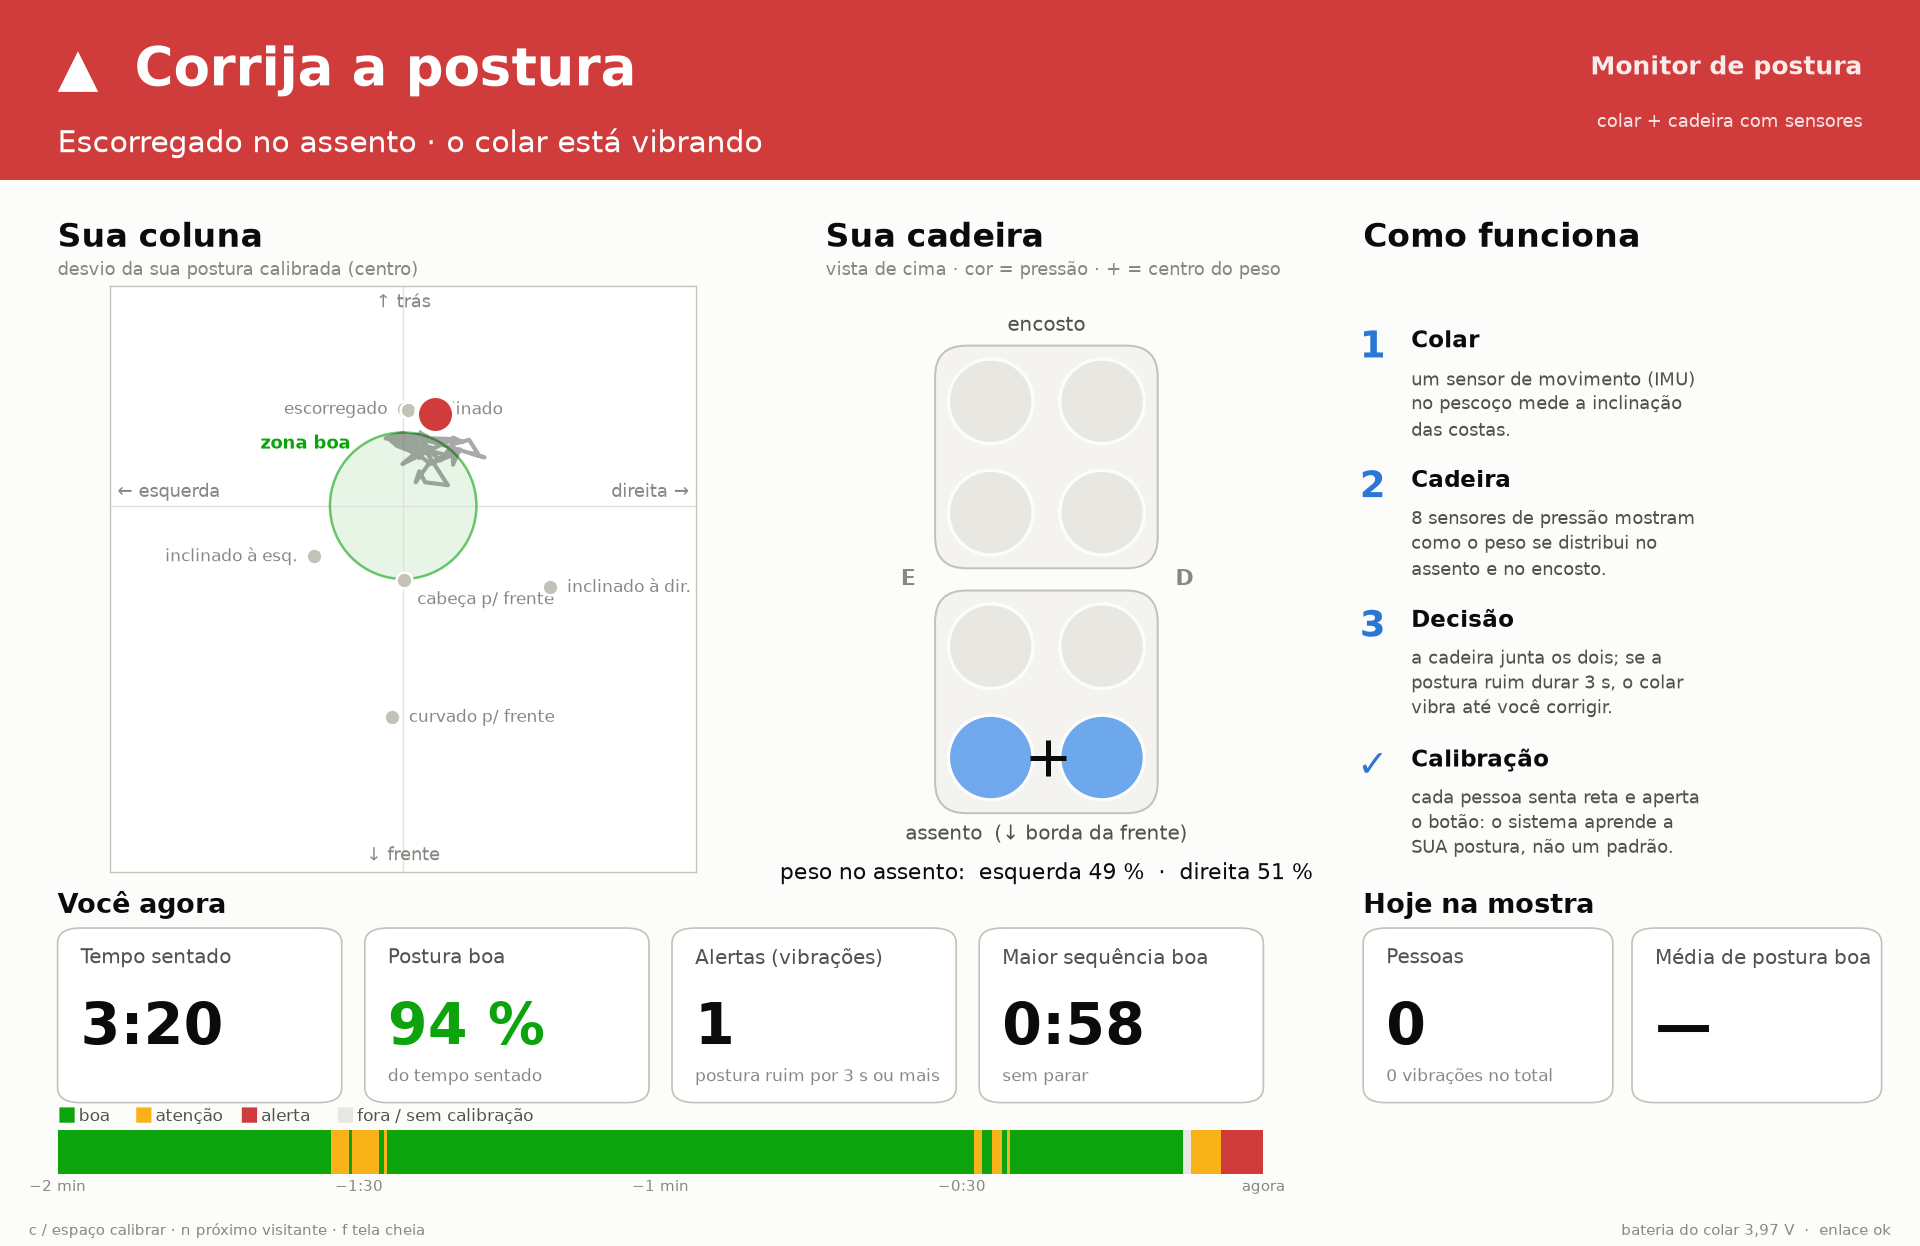
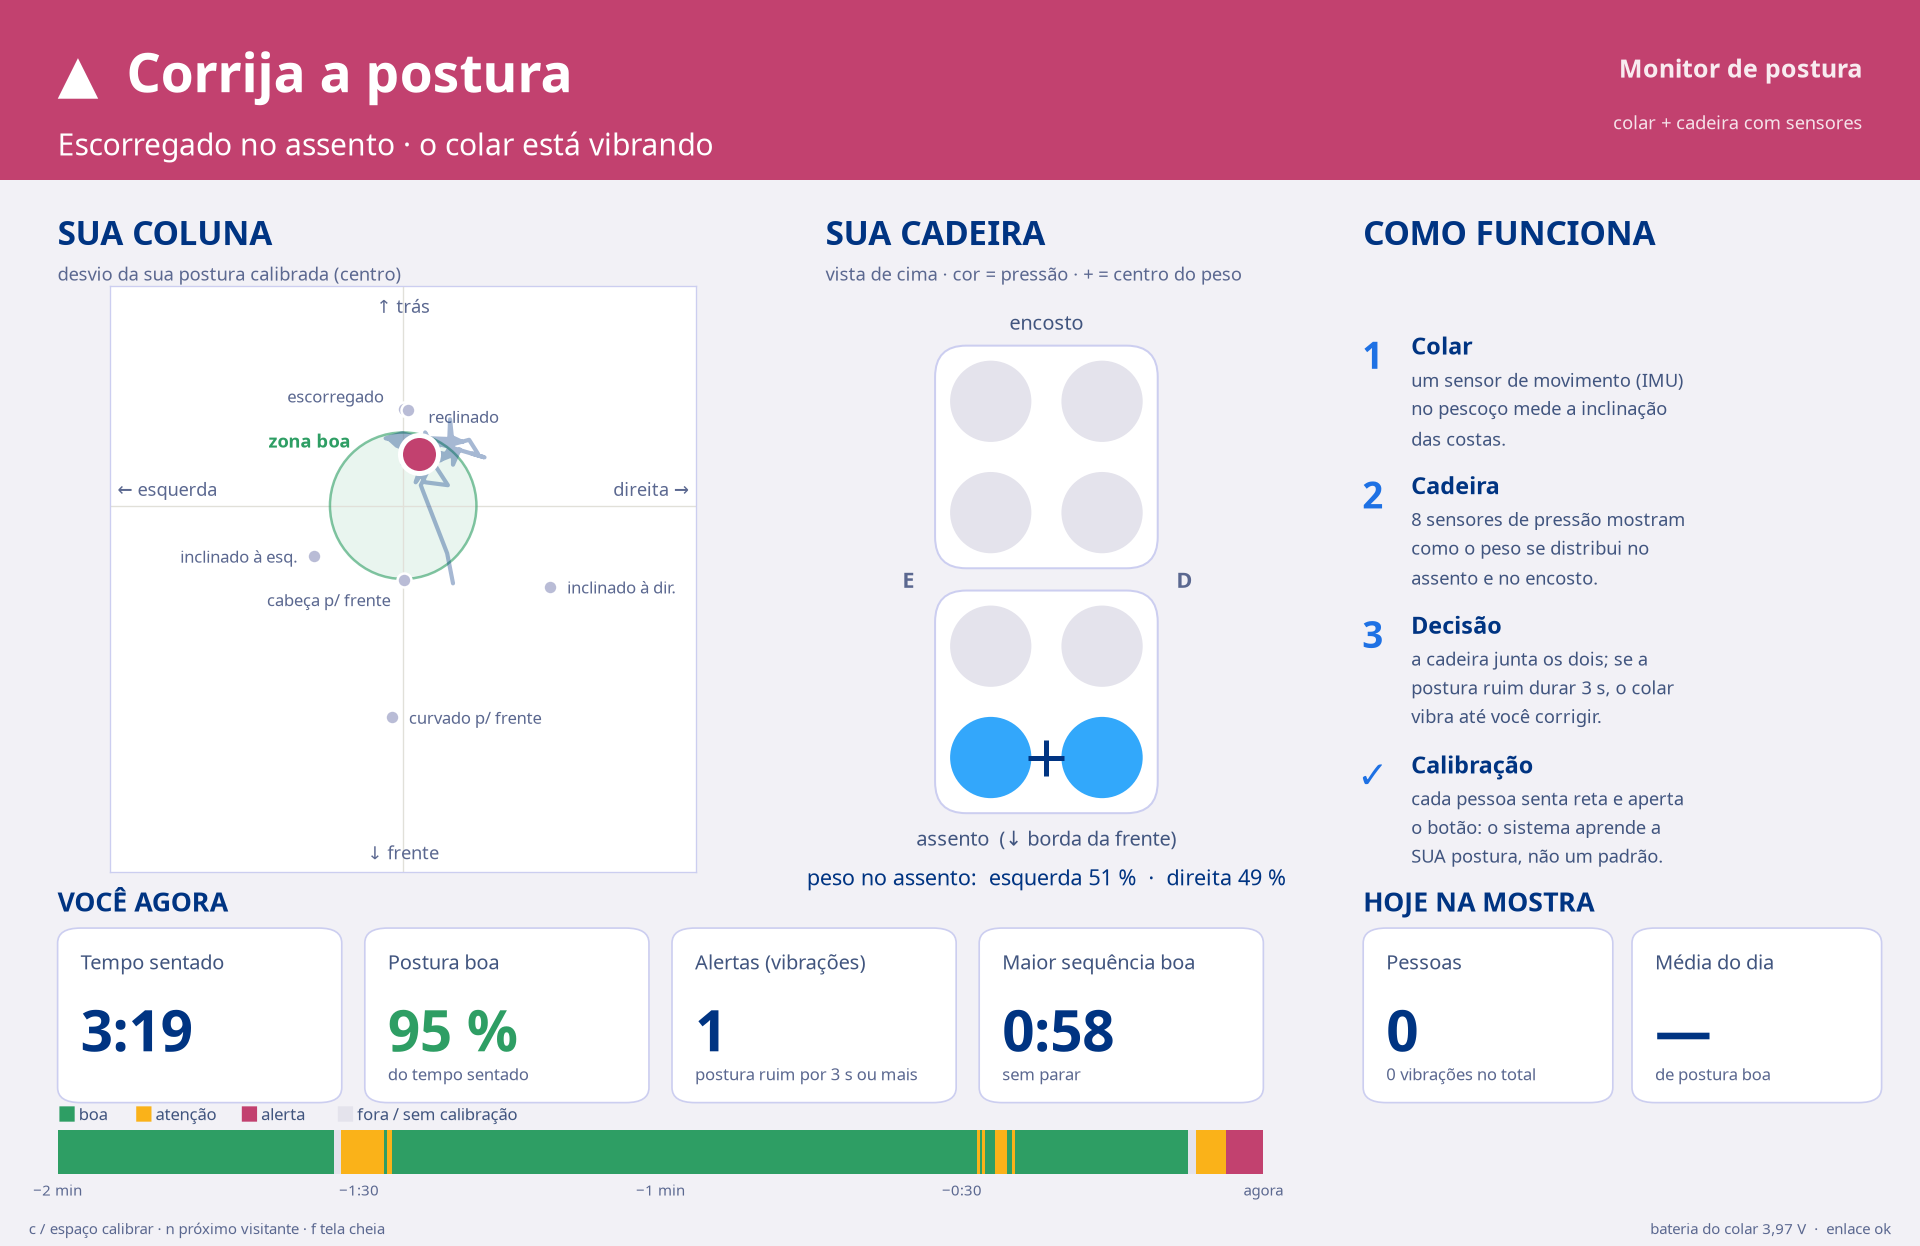
mostra: align the exhibit screen with the stand's visual identity
Visual only (visits, stats and decisions untouched):
- navy text/titles, upper-case section titles, Noto Sans (DejaVu fallback
  for the symbols); lavender background, white cards; step numbers in
  #1e71e4; FSR pressure cyan -> violet.
- Status band: the stand's green/pink stepped down for white text
  (#2e9e64 3.4:1, #c2416f 4.9:1); amber attention kept, navy text (6.3:1);
  neutral states on the stand gradient #1e71e4 -> #9142d4 -> #cd4fd3.
- Fixes: "escorregado"/"reclinado" and "cabeça p/ frente"/"inclinado à
  dir." labels no longer touch; "Média do dia" fits its card; tighter step
  text for Noto's line height.
- Regenerated docs/stand/dashboard-{boa,alerta}.png; stand README and the
  exhibit guide describe the applied palette.

diff --git a/analysis/mostra.py b/analysis/mostra.py
@@ -40,7 +40,7 @@ import live_posture as LP  # noqa: I001  (sets the Qt backend first)
 import matplotlib.pyplot as plt
 import numpy as np
 from matplotlib.animation import FuncAnimation
-from matplotlib.colors import ListedColormap
+from matplotlib.colors import LinearSegmentedColormap, ListedColormap
 from matplotlib.patches import Circle, FancyBboxPatch, Rectangle
 
 import chair_map as M
@@ -60,12 +60,23 @@ STATS_DIR = Path.home() / ".local" / "state" / "tcc-mostra"
 # sample categories (timeline + tiles)
 NONE, GOOD, WARN, ALERT = 0, 1, 2, 3
 
-# status palette (dataviz reference: good / warning / critical) + neutrals
-GOOD_C, WARN_C, ALERT_C = "#0ca30c", "#fab219", "#d03b3b"
-INFO_C, IDLE_C = "#2a78d6", "#52514e"
-INK, INK2, MUTED = "#0b0b0b", "#52514e", "#898781"
-SURFACE, PLATE, PLATE_EC, EMPTY_FC = "#fcfcfb", "#f4f3f0", "#c3c2b7", "#e8e7e2"
+# stand identity (docs/stand/README.md). Status colours are the stand's green /
+# pink stepped down for white text (bold, large: >= 3:1 — 3.4 and 4.9); the
+# amber "attention" isn't on the panels but is a distinct third state (navy
+# text, 6.3:1). Neutral states use the stand's gradient (white text >= 3.7:1).
+GOOD_C, WARN_C, ALERT_C = "#2e9e64", "#fab219", "#c2416f"
+INFO_C = "#1e71e4"                            # 4.1:1 on SURFACE (the cyan is only 2.3)
+IDLE = None                                   # header: the stand gradient
+STAND_GRADIENT = ["#1e71e4", "#9142d4", "#cd4fd3"]
+INK, INK2, MUTED = "#003482", "#41557f", "#5b6890"   # navy; 6.6 and 4.9:1 on SURFACE
+SURFACE, PLATE, PLATE_EC, EMPTY_FC = "#f2f1f6", "#ffffff", "#cccef0", "#e4e3ec"
+REF_C = "#b9bcd6"                             # recorded postures, behind the live dot
 CAT_CMAP = ListedColormap([EMPTY_FC, GOOD_C, WARN_C, ALERT_C])
+LOAD_CMAP = LinearSegmentedColormap.from_list("load", ["#cfeafe", "#32a8fb", "#6a73e6", "#9142d4"])
+REF_LABELS = {                                # (offset pt, ha): keep nearby postures apart
+    "escorregado": ((-12, 8), "right"), "reclinado": ((12, -4), "left"),
+    "cabeca": ((-8, -12), "right"),
+}
 
 
 # --- pure logic ---------------------------------------------------------------
@@ -282,7 +293,7 @@ class ReplayReader(LP.ChairReader):
 
 # --- drawing ------------------------------------------------------------------
 def panel_title(fig, x, y, text, sub=""):
-    fig.text(x, y, text, fontsize=20, weight="bold", color=INK, va="bottom")
+    fig.text(x, y, text.upper(), fontsize=20, weight="bold", color=INK, va="bottom")
     if sub:
         fig.text(x, y - 0.005, sub, fontsize=11, color=MUTED, va="top")
 
@@ -333,13 +344,13 @@ class ChairPanel:
         for slot, (plate, _, sx, sy) in M.SLOTS.items():
             x0, y0 = self.PLATES[plate]
             self.spots[slot] = ax.add_patch(Circle((x0 + 2.5 + 5 * sx, y0 + 2.5 + 5 * sy),
-                                                   self.SPOT_R, zorder=2, lw=2, ec=SURFACE))
+                                                   self.SPOT_R, zorder=2, lw=2, ec=PLATE))
         self.balance = ax.text(5, -2.2, "", ha="center", va="top", fontsize=13, color=INK)
 
     def update(self, g: dict[int, float], live: bool):
         for slot, spot in self.spots.items():
             us = g.get(self.fmap.get(slot, -1), 0.0) if live else 0.0
-            spot.set_facecolor(LP.LOAD_CMAP(float(LP.LOAD_NORM(us))) if us > 0 else EMPTY_FC)
+            spot.set_facecolor(LOAD_CMAP(float(LP.LOAD_NORM(us))) if us > 0 else EMPTY_FC)
         for plate, (x0, y0) in self.PLATES.items():
             bal = M.plate_balance(self.fmap, g if live else {}, plate)
             self.cop[plate].set_data(*(([x0 + 2.5 + 5 * bal[0]], [y0 + 2.5 + 5 * bal[1]])
@@ -389,6 +400,7 @@ def main() -> int:
     for k in ("keymap.back", "keymap.home", "keymap.save", "keymap.pan", "keymap.zoom",
               "keymap.grid", "keymap.yscale", "keymap.xscale"):
         plt.rcParams[k] = []
+    plt.rcParams["font.family"] = ["Noto Sans", "DejaVu Sans"]   # closer to the panels; DejaVu for ✓ ▲ ■ ←
     fig = plt.figure(figsize=(16, 10), facecolor=SURFACE)
     fig.canvas.manager.set_window_title("Monitor de postura — mostra")
     try:
@@ -401,7 +413,9 @@ def main() -> int:
     head.set_xlim(0, 1)
     head.set_ylim(0, 1)
     head.axis("off")
-    band = head.add_patch(Rectangle((0, 0), 1, 1, fc=IDLE_C, lw=0))
+    head.imshow(LinearSegmentedColormap.from_list("stand", STAND_GRADIENT)(np.linspace(0, 1, 512))[None],
+                aspect="auto", extent=(0, 1, 0, 1), zorder=0)
+    band = head.add_patch(Rectangle((0, 0), 1, 1, lw=0, zorder=1))
     status = head.text(0.03, 0.60, "", fontsize=32, weight="bold", color="white", va="center")
     status_sub = head.text(0.03, 0.20, "", fontsize=18, color="white", va="center")
     _ = [head.text(0.97, 0.62, "Monitor de postura", fontsize=15, weight="bold",
@@ -436,8 +450,8 @@ def main() -> int:
             label = LP.REF_POSTURES[key][1]
             if np.hypot(mx, my) < LP.ALERT_DEG:          # crossed legs: inside the good zone
                 continue
-            ax.scatter([mx], [my], s=90, color="#c3c2b7", edgecolor="white", lw=1.5, zorder=2)
-            off, ha = LP.REF_POSTURES[key][2:]
+            ax.scatter([mx], [my], s=70, color=REF_C, edgecolor="white", lw=1.5, zorder=2)
+            off, ha = REF_LABELS.get(key, LP.REF_POSTURES[key][2:])
             ax.annotate(label, (mx, my), xytext=off, textcoords="offset points", ha=ha,
                         va="center", fontsize=10, color=MUTED, zorder=2)
     trail, = ax.plot([], [], color=INK, lw=2.5, alpha=0.35, zorder=4, solid_capstyle="round")
@@ -456,7 +470,7 @@ def main() -> int:
         y = 0.735 - i * 0.112
         fig.text(0.715, y, num, fontsize=22, weight="bold", color=INFO_C, va="top", ha="center")
         fig.text(0.735, y, title, fontsize=14, weight="bold", color=INK, va="top")
-        fig.text(0.735, y - 0.03, body, fontsize=11, color=INK2, va="top", linespacing=1.35)
+        fig.text(0.735, y - 0.03, body, fontsize=11, color=INK2, va="top", linespacing=1.15)
 
     # você (current / last visitor) + timeline
     who = fig.text(0.03, 0.262, "", fontsize=16, weight="bold", color=INK, va="bottom")
@@ -479,9 +493,9 @@ def main() -> int:
         fig.text(x + 0.011, 0.097, label, color=INK2, fontsize=10, va="bottom")
 
     # hoje
-    fig.text(0.71, 0.262, "Hoje na mostra", fontsize=16, weight="bold", color=INK, va="bottom")
+    fig.text(0.71, 0.262, "HOJE NA MOSTRA", fontsize=16, weight="bold", color=INK, va="bottom")
     day_tiles = [Tile(fig, (0.71, 0.115, 0.13, 0.14), "Pessoas"),
-                 Tile(fig, (0.85, 0.115, 0.13, 0.14), "Média de postura boa")]
+                 Tile(fig, (0.85, 0.115, 0.13, 0.14), "Média do dia")]
     record = fig.text(0.71, 0.075, "", fontsize=13, color=INK, va="center")
     footer = fig.text(0.985, 0.006, "", fontsize=9, color=MUTED, ha="right", va="bottom")
     fig.text(0.015, 0.006, "c / espaço calibrar · n próximo visitante · f tela cheia",
@@ -507,7 +521,9 @@ def main() -> int:
     fig.canvas.mpl_connect("key_press_event", on_key)
 
     def header(colour, title, sub="", ink="white"):
-        band.set_facecolor(colour)
+        band.set_visible(colour is not None)          # None: the stand gradient shows
+        if colour is not None:
+            band.set_facecolor(colour)
         status.set(text=title, color=ink)
         status_sub.set(text=sub, color=ink)
 
@@ -541,7 +557,7 @@ def main() -> int:
 
         # status band
         if not reader.connected:
-            header(IDLE_C, "Conectando à cadeira…", "verifique o cabo USB da cadeira")
+            header(IDLE, "Conectando à cadeira…", "verifique o cabo USB da cadeira")
         elif cal_txt.startswith("calibrating") and cal_age < CALIBRATING_MAX_S:
             header(INFO_C, "Calibrando… fique parado", "sentado reto, olhando para a frente")
         elif cal_txt.startswith("calibrated upright") and cal_age < CALIBRATED_SHOW_S:
@@ -551,13 +567,13 @@ def main() -> int:
             header(WARN_C, "Calibração não deu certo", "sente-se reto, fique parado e "
                    "aperte o botão de novo", ink=INK)
         elif not body_up:
-            header(IDLE_C, "Ligue o colar", "o colar está sem sinal")
+            header(IDLE, "Ligue o colar", "o colar está sem sinal")
         elif not LP.imu_valid(r):
-            header(IDLE_C, "Ajuste o colar", "o sensor do colar está sem leitura")
+            header(IDLE, "Ajuste o colar", "o sensor do colar está sem leitura")
         elif seated is False:
-            header(IDLE_C, "Sente-se para começar", "a cadeira está vazia")
+            header(IDLE, "Sente-se para começar", "a cadeira está vazia")
         elif not r["cal"] or exhibit.visit is None:
-            header(IDLE_C, "Sente-se reto e aperte o botão da cadeira",
+            header(IDLE, "Sente-se reto e aperte o botão da cadeira",
                    "assim o sistema aprende a SUA postura")
         elif cat == ALERT:
             header(ALERT_C, "▲  Corrija a postura",
@@ -577,7 +593,7 @@ def main() -> int:
                             and LP.imu_valid(x)])
             trail.set_data(pts[:, 0], pts[:, 1])
             dot.set_offsets([np.clip(pts[-1], [-39, -49], [39, 29])])
-            dot.set_color({GOOD: GOOD_C, WARN: WARN_C, ALERT: ALERT_C}.get(cat, IDLE_C))
+            dot.set_color({GOOD: GOOD_C, WARN: WARN_C, ALERT: ALERT_C}.get(cat, MUTED))
             dot.set_edgecolor("white")
         trail.set_visible(bool(show))
         dot.set_visible(bool(show))
@@ -590,8 +606,8 @@ def main() -> int:
 
         # você
         v = exhibit.visit or exhibit.last
-        who.set_text("Você agora" if exhibit.visit else
-                     "Última pessoa" if exhibit.last else "Você")
+        who.set_text("VOCÊ AGORA" if exhibit.visit else
+                     "ÚLTIMA PESSOA" if exhibit.last else "VOCÊ")
         if v is None:
             for t in tiles:
                 t.set("—")
@@ -609,7 +625,7 @@ def main() -> int:
         # hoje
         d = exhibit.day
         day_tiles[0].set(str(d.visitors), f"{d.alerts} vibrações no total")
-        day_tiles[1].set("—" if d.mean_pct is None else f"{d.mean_pct:.0f} %")
+        day_tiles[1].set("—" if d.mean_pct is None else f"{d.mean_pct:.0f} %", "de postura boa")
         record.set_text("" if d.best_pct is None else
                         f"Recorde do dia:  {d.best_pct:.0f} % de postura boa")
 

diff --git a/docs/stand/README.md b/docs/stand/README.md
@@ -75,16 +75,20 @@ princípio do `docs/guia-mostra.md`).
   navegam, `F` = tela cheia): introdução de ~3 min antes da demonstração.
   Os prints `dashboard-*.png` saem de
   `mostra.py --replay data/validation/2026-10-22_Andre-Monteiro_run1.csv --screenshot ...`.
-- **Tela do `mostra.py`:** hoje usa as cores do `live_posture` (fundo
-  `#fcfcfb`, verde `#0ca30c`, âmbar `#fab219`, vermelho `#d03b3b`, azul
-  `#2a78d6`). Proposta para alinhar com o stand (não aplicada):
-  - texto/títulos em `navy`;
-  - números dos passos em `ciano`;
-  - faixa de topo com o gradiente da base;
-  - verde → `#4bc384`; vermelho → `#f16ca2` ou um tom mais escuro para
-    contraste com texto branco.
-  - **Âmbar ("Atenção") não existe nos painéis**; manter âmbar ou usar
-    `lilás`? Fica a decidir.
+- **Tela do `mostra.py`:** alinhada com o stand.
+  - Texto e títulos em `navy`; títulos de seção em caixa-alta; fonte Noto Sans.
+  - Números dos passos em `azul-vivo` (`#1e71e4`, 4,1:1 sobre o `fundo`; o
+    `ciano` daria só 2,3:1).
+  - Fundo `fundo`, cards brancos; pressão dos FSRs de `ciano` a `violeta`.
+  - Faixa de status, sempre com ícone + texto:
+    - boa: `#2e9e64`;
+    - alerta: `#c2416f`;
+    - atenção: âmbar `#fab219`, com texto `navy`;
+    - estados neutros (sem colar, sem calibração, assento vazio): o gradiente
+      da base.
+
+    Verde e rosa são as cores do painel escurecidas para dar contraste com
+    texto branco (3,4:1 e 4,9:1; `#4bc384` e `#f16ca2` dariam 2,2:1 e 2,8:1).
 - **Etiquetas na cadeira/colar, folheto, crachá:** fundo `fundo`, título em
   `navy`, faixa fina com o gradiente na base, um ícone de coluna na cor do
   estado.

diff --git a/docs/guia-mostra.md b/docs/guia-mostra.md
@@ -20,7 +20,11 @@ dia de um replay ficam só na memória (não contam no dia real).
 - **Faixa de status** (topo), sempre com ícone e texto, não só cor:
   - verde `✓ Postura boa`;
   - âmbar `● Atenção` (postura ruim, ainda sem vibrar);
-  - vermelho `▲ Corrija a postura` (o colar está vibrando).
+  - rosa `▲ Corrija a postura` (o colar está vibrando).
+
+  Cores e fonte seguem a identidade do stand ([`stand/README.md`](stand/README.md)).
+  Os estados neutros (ligar o colar, sentar, calibrar) usam o gradiente azul →
+  violeta → magenta dos painéis.
 
   A faixa diz o nome da postura (curvado para a frente, inclinado para a
   esquerda/direita, escorregado no assento; reclinado é ok). Em cinza, o que
